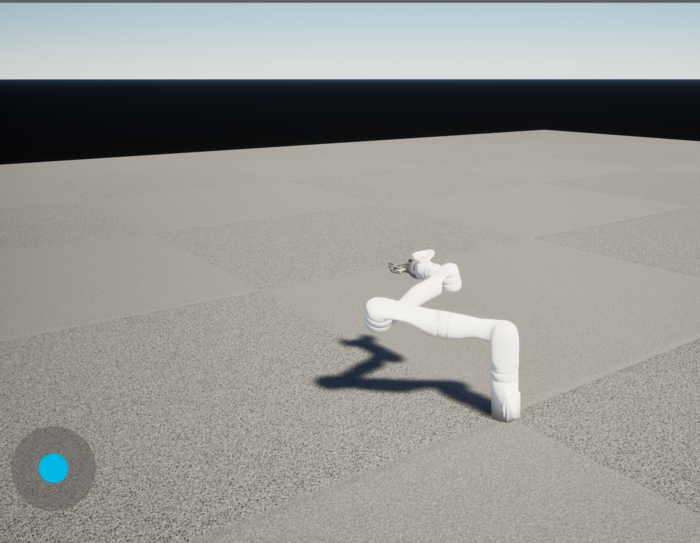
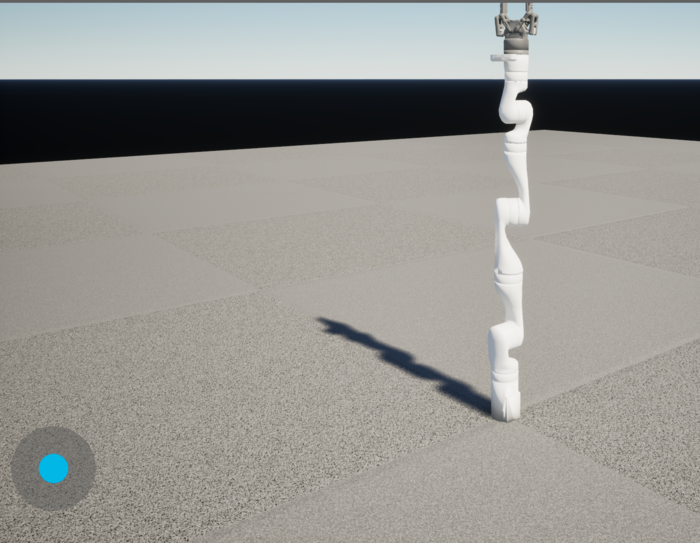
test(newton): command the gen3 under Newton through its IK controller
The arm is now functional, not just simulating: the end-effector controller
traces a target and Newton integrates the result, with the joints tracking.

  t=11.89  joint_4=-0.0570
  t=11.98  joint_4=-0.0536
  t=12.09  joint_4=-0.0487
  t=12.36  joint_4=-0.0359
  t=12.55  joint_4=-0.0296

The reason SetActuatorControl did nothing turned out to have nothing to do with
Newton. It reproduces with Newton off, stepping locally:
AMjArticulation::ApplyControls hands ctrl to a bound, enabled controller and
returns early, so the staged value never reaches d->ctrl. The call still
returns true, which is what made it look like it had worked. The gen3 blueprint
carries RammsMjEndEffectorController, enabled, so that component owns ctrl and
is the interface to command through.

EControlSource (0 = external ZMQ, 1 = internal UI) sits on the path *after*
that early return, so flipping it does not rescue SetActuatorControl while a
controller is bound — worth recording, because it is the first thing the enum
tempts you to try.

Also corrects the earlier note about state: activation is handled. The solver
resets the sim once the worker finishes loading, so Newton takes over from the
model's initial state rather than from wherever URLab had stepped to —

  [NewtonSolver] Sim advanced to t=459.284s during worker load —
  resetting so Newton takes over from the initial state

What remains missing is a mid-run state push, which is the set_state item.
[…]

Changed region(s): [[0.45, 0.0, 0.78, 0.7366], [0.66, 0.7072, 0.69, 0.7366]]

diff --git a/Scripts/pie_tests/newton/README.md b/Scripts/pie_tests/newton/README.md
@@ -29,7 +29,11 @@ MuJoCo rejects the model with `joint found in world body`.
 positive in geom`. They do set from Python through `set_editor_property`, so
 set them explicitly on every element you add.
 
-![Gen3 arm simulated by Newton inside Unreal](../../../doc/images/newton_gen3_unreal.gif)
+![Gen3 arm commanded under Newton inside Unreal](../../../doc/images/newton_gen3_commanded.gif)
+
+The arm above is being *commanded*: the end-effector controller traces a circle
+while Newton integrates the dynamics. A passive-settling capture is in
+`newton_gen3_unreal.gif` alongside it.
 
 The Kinova Gen3 with its 2F-85 gripper, stepped by Newton through URLab's custom
 step handler and rendered by Unreal. `run_newton_capture.py` swaps the pendulum
@@ -50,12 +54,32 @@ the source of truth and re-run it rather than relying on the `.umap`.
 pose silently snaps back. No resync fires, because sim time keeps advancing
 normally and the solver's external-change detector only looks at time. This is
 the `set_state` wiring the plan tracks as the next Newton item; until it lands,
-re-enter play rather than resetting to change the starting pose.
+re-enter play rather than resetting to change the starting pose. Activation
+*is* handled: the solver resets the sim when the worker finishes loading, so
+Newton takes over from the model's initial state rather than from wherever
+URLab had already stepped to —
 
-**Actuator commands do not stick either**, for the same reason: the worker owns
-the state it integrates, so a `SetActuatorControl` written into Unreal's `ctrl`
-is not what Newton stepped. Joint readouts still update live, because those are
-Newton's own state written back.
+    [NewtonSolver] Sim advanced to t=459.284s during worker load —
+    resetting so Newton takes over from the initial state
+
+**`SetActuatorControl` is silently ignored when a controller is bound.** This
+looked like a Newton problem and is not one — it reproduces with Newton off,
+stepping locally. `AMjArticulation::ApplyControls` hands `ctrl` to a bound,
+enabled controller and *returns early*, so the value staged by
+`SetActuatorControl` never reaches `d->ctrl`. The call still returns true.
+
+The gen3 blueprint carries `RammsMjEndEffectorController`, enabled, so that
+component owns `ctrl`. Command the arm through it instead:
+
+```python
+ee.resync_target_to_current_pose()
+ee.move_target_by(unreal.Vector(0.0, 0.0, 0.03), unreal.Rotator(0, 0, 0), False)
+```
+
+Its inverse kinematics writes the actuator values, Newton integrates them, and
+the joints track. `EControlSource` on the articulation (0 = external ZMQ,
+1 = internal UI) only matters on the path *after* that early return, so
+flipping it does not rescue `SetActuatorControl` while a controller is bound.
 
 **Subobject handles go stale.** A handle from an earlier gather is invalid once
 the next add reshapes the tree, and using one silently attaches to the root
